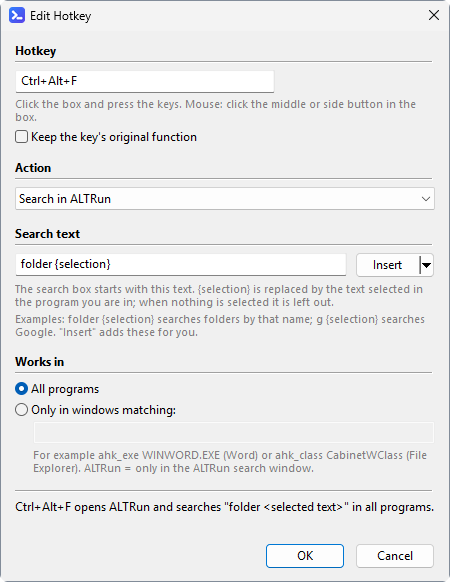
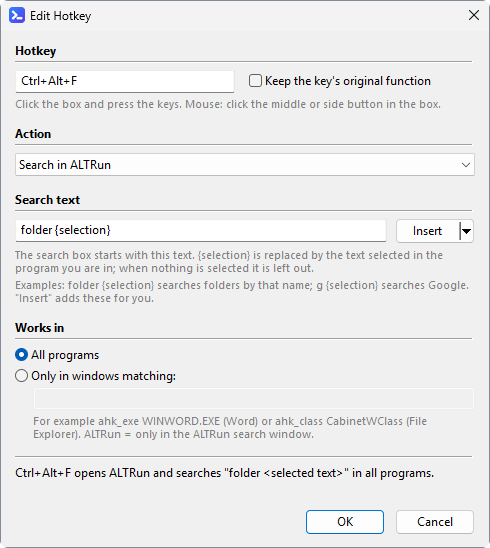
Widen the Hotkey Window So the Hotkey Hint Fits on One Line (Test Build 2026.11.09.18) (#432)
- The hotkey window's content is 460 wide and the hotkey box 220; the hint below the box fits on one line
- Keep the key's original function stays beside the hotkey box
- Shorter Japanese hotkey hint

diff --git a/CHANGELOG.md b/CHANGELOG.md
@@ -5,6 +5,15 @@
 
 ## [未发布]
 
+## [2026.11.09.18]
+
+测试版。
+
+Test build.
+
+### 改进
+- 热键编辑窗口加宽一些: 热键框下面的说明在四种语言下都是一行; "保留按键原来的功能" 仍在热键框右边
+
 ## [2026.11.09.17]
 
 测试版。
@@ -1274,7 +1283,8 @@ Smoother typing, easier to get started, and a few useful new features.
 ## 更早的版本
 见 [GitHub Releases](https://github.com/zhugecaomao/ALTRun/releases)。
 
-[未发布]: https://github.com/zhugecaomao/ALTRun/compare/2026.11.09.17...HEAD
+[未发布]: https://github.com/zhugecaomao/ALTRun/compare/2026.11.09.18...HEAD
+[2026.11.09.18]: https://github.com/zhugecaomao/ALTRun/compare/2026.11.09.17...2026.11.09.18
 [2026.11.09.17]: https://github.com/zhugecaomao/ALTRun/compare/2026.11.09.16...2026.11.09.17
 [2026.11.09.16]: https://github.com/zhugecaomao/ALTRun/compare/2026.11.09.15...2026.11.09.16
 [2026.11.09.15]: https://github.com/zhugecaomao/ALTRun/compare/2026.11.09.14...2026.11.09.15
